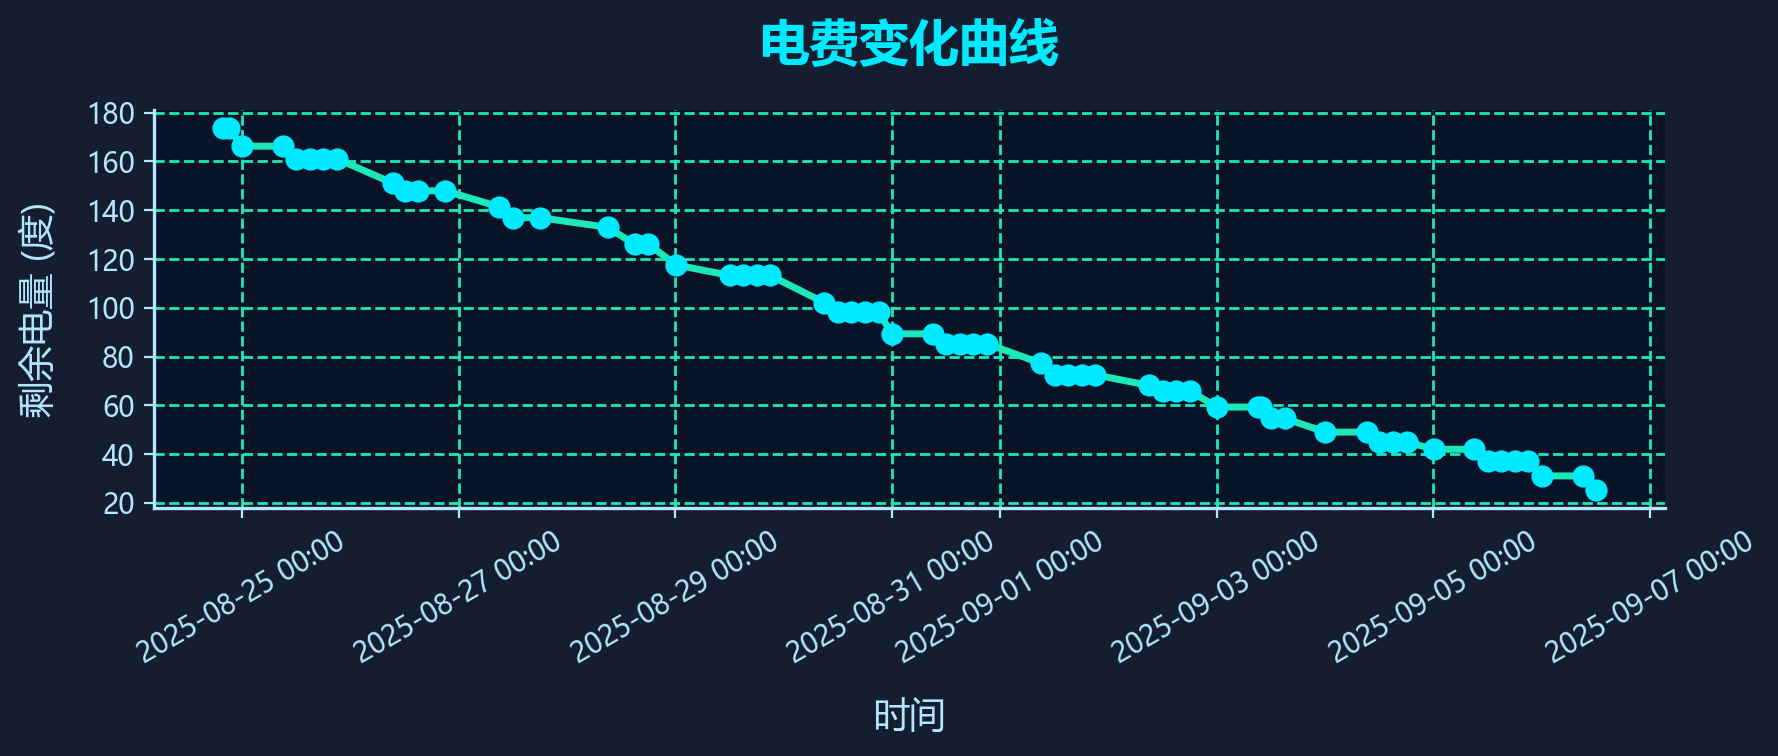
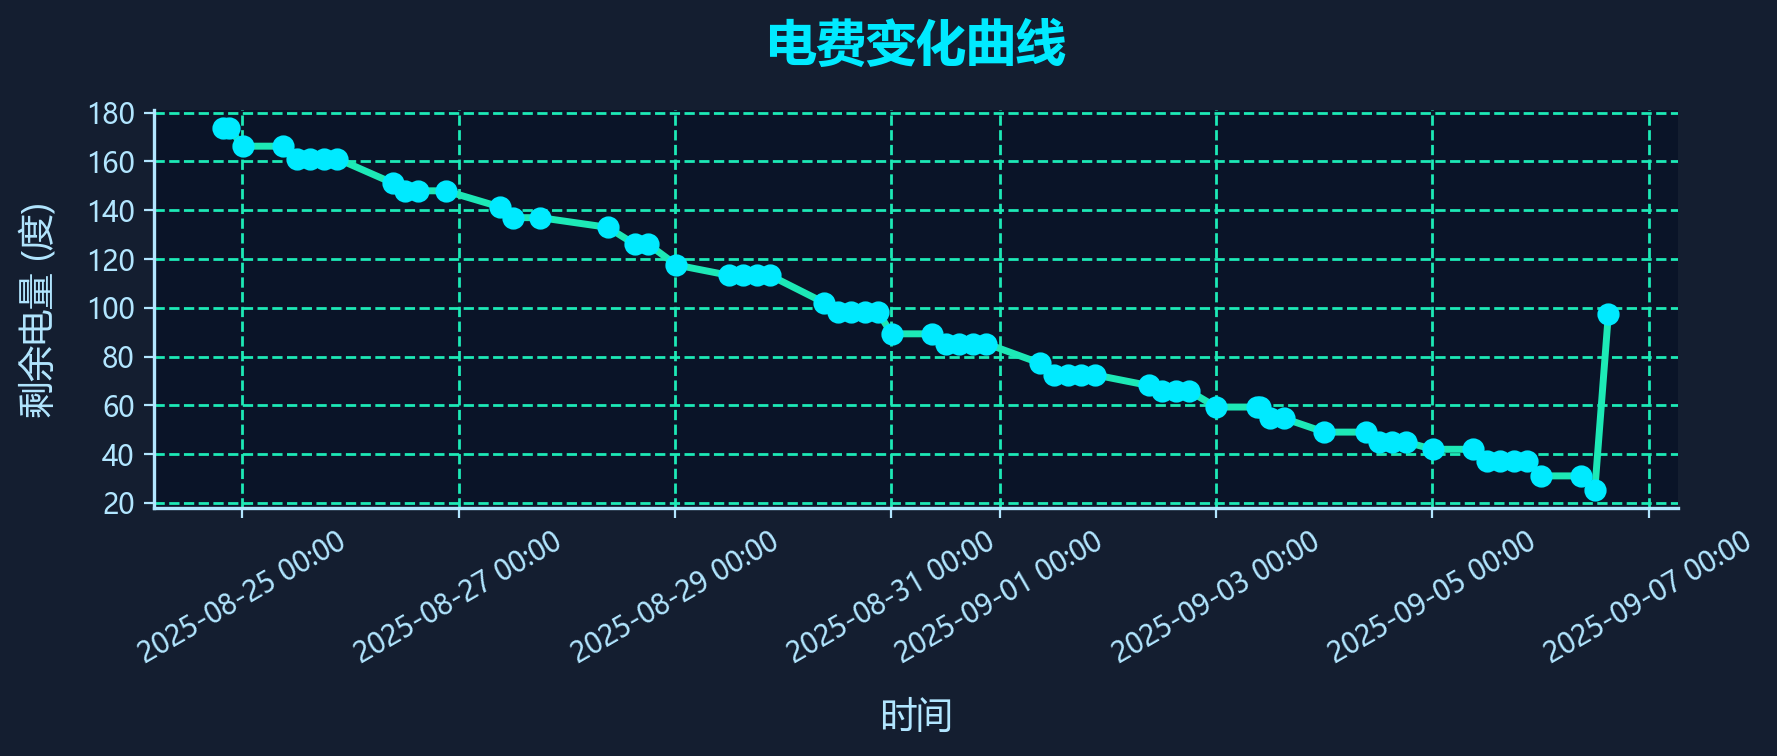
2025-09-06 15:03 自动提交电费变更

diff --git a/data/debug_page_source.html b/data/debug_page_source.html
@@ -2,7 +2,7 @@
     <meta http-equiv="Content-Type" content="text/html; charset=UTF-8">
     <meta http-equiv="X-UA-Compatible" content="IE=edge">
     <meta name="viewport" content="width=device-width, initial-scale=1, user-scalable=no">
-    <meta name="_csrf" content="ca65ffe2-5302-41b9-9860-bca4735f50ce">
+    <meta name="_csrf" content="7611365e-2fcf-42b8-a25b-b7f0aa1117dd">
     <meta name="_csrf_header" content="X-CSRF-TOKEN">
     <link type="image/png" href="/epay/images/nju/icon.png" rel="shortcut icon">
     <link type="text/css" rel="stylesheet" href="/epay/css/wxpage/weui.min.css">
@@ -32,7 +32,7 @@
 
 
 <body>
-<div id="app"><div class="centent"><div class="top"><div class="clearfix"><span class="fl">持卡人姓名：<i>吴相民</i></span></div> <div class="clearfix"><span class="fl">校园卡余额：<i class="green">60.59元</i></span></div></div> <div class="line"></div> <div class="cont"><div class="clearfix"><span class="fl">缴费地址：<i>仙林校区 18幢 18栋第17层1702</i></span></div> <div class="clearfix"><span class="fl">剩余电量：<i>25.42度</i><em></em></span></div> <!----> <!----></div> <div class="num clearfix"><div style="display: flex; flex-wrap: wrap;"><span class="active">10元</span><span class="">20元</span><span class="">50元</span><span class="">100元</span><span class="">200元</span><span class="">自定义</span></div></div> <div class="inputbox" style="display: none;"><input type="text" placeholder="请输入充值金额" pattern="[0-9]*" maxlength="4" id="amount"></div> <div class="footer">充值</div> <div class="desc">充值时间：每天00:05-23:55</div> <div class="wapat"><div class="wapat-inner"><div class="wapat-title">错误！</div> <div class="wapat-btn-box"><div class="wapat-btn wapat-btn-ok">确定</div></div></div></div></div></div>
+<div id="app"><div class="centent"><div class="top"><div class="clearfix"><span class="fl">持卡人姓名：<i>吴相民</i></span></div> <div class="clearfix"><span class="fl">校园卡余额：<i class="green">60.59元</i></span></div></div> <div class="line"></div> <div class="cont"><div class="clearfix"><span class="fl">缴费地址：<i>仙林校区 18幢 18栋第17层1702</i></span></div> <div class="clearfix"><span class="fl">剩余电量：<i>97.47度</i><em></em></span></div> <!----> <!----></div> <div class="num clearfix"><div style="display: flex; flex-wrap: wrap;"><span class="active">10元</span><span class="">20元</span><span class="">50元</span><span class="">100元</span><span class="">200元</span><span class="">自定义</span></div></div> <div class="inputbox" style="display: none;"><input type="text" placeholder="请输入充值金额" pattern="[0-9]*" maxlength="4" id="amount"></div> <div class="footer">充值</div> <div class="desc">充值时间：每天00:05-23:55</div> <div class="wapat"><div class="wapat-inner"><div class="wapat-title">错误！</div> <div class="wapat-btn-box"><div class="wapat-btn wapat-btn-ok">确定</div></div></div></div></div></div>
 
 
 
